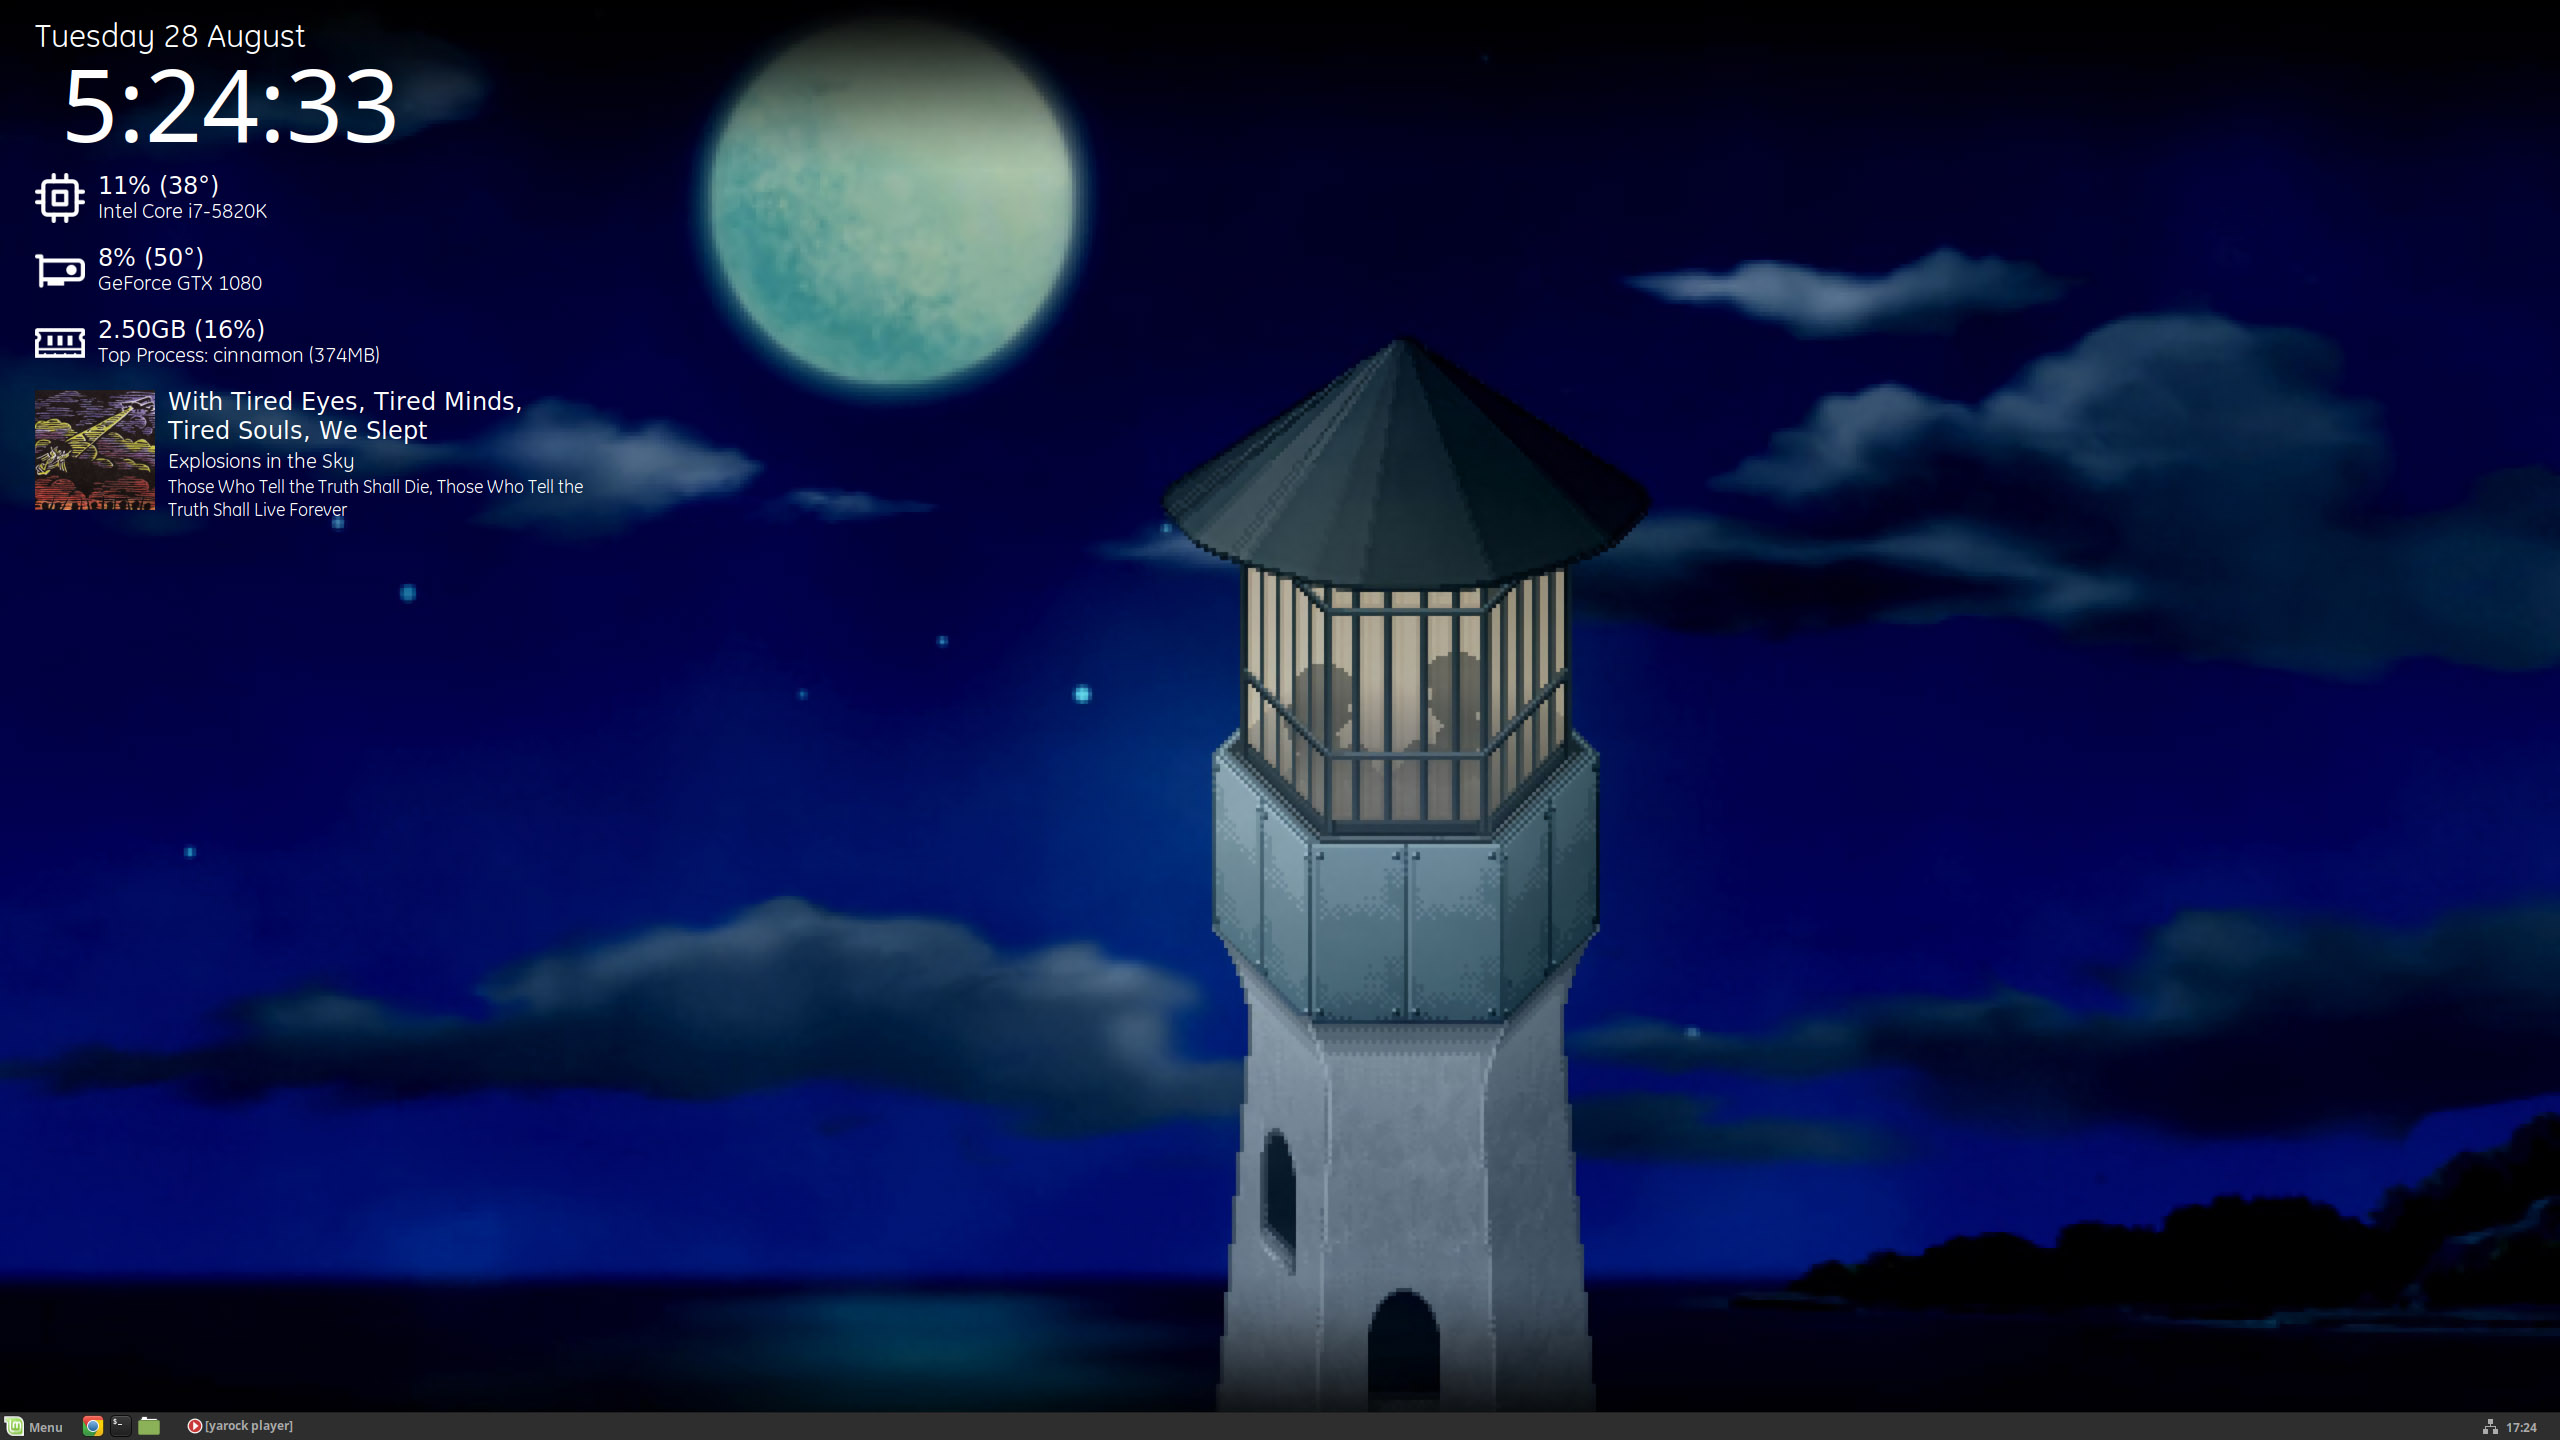
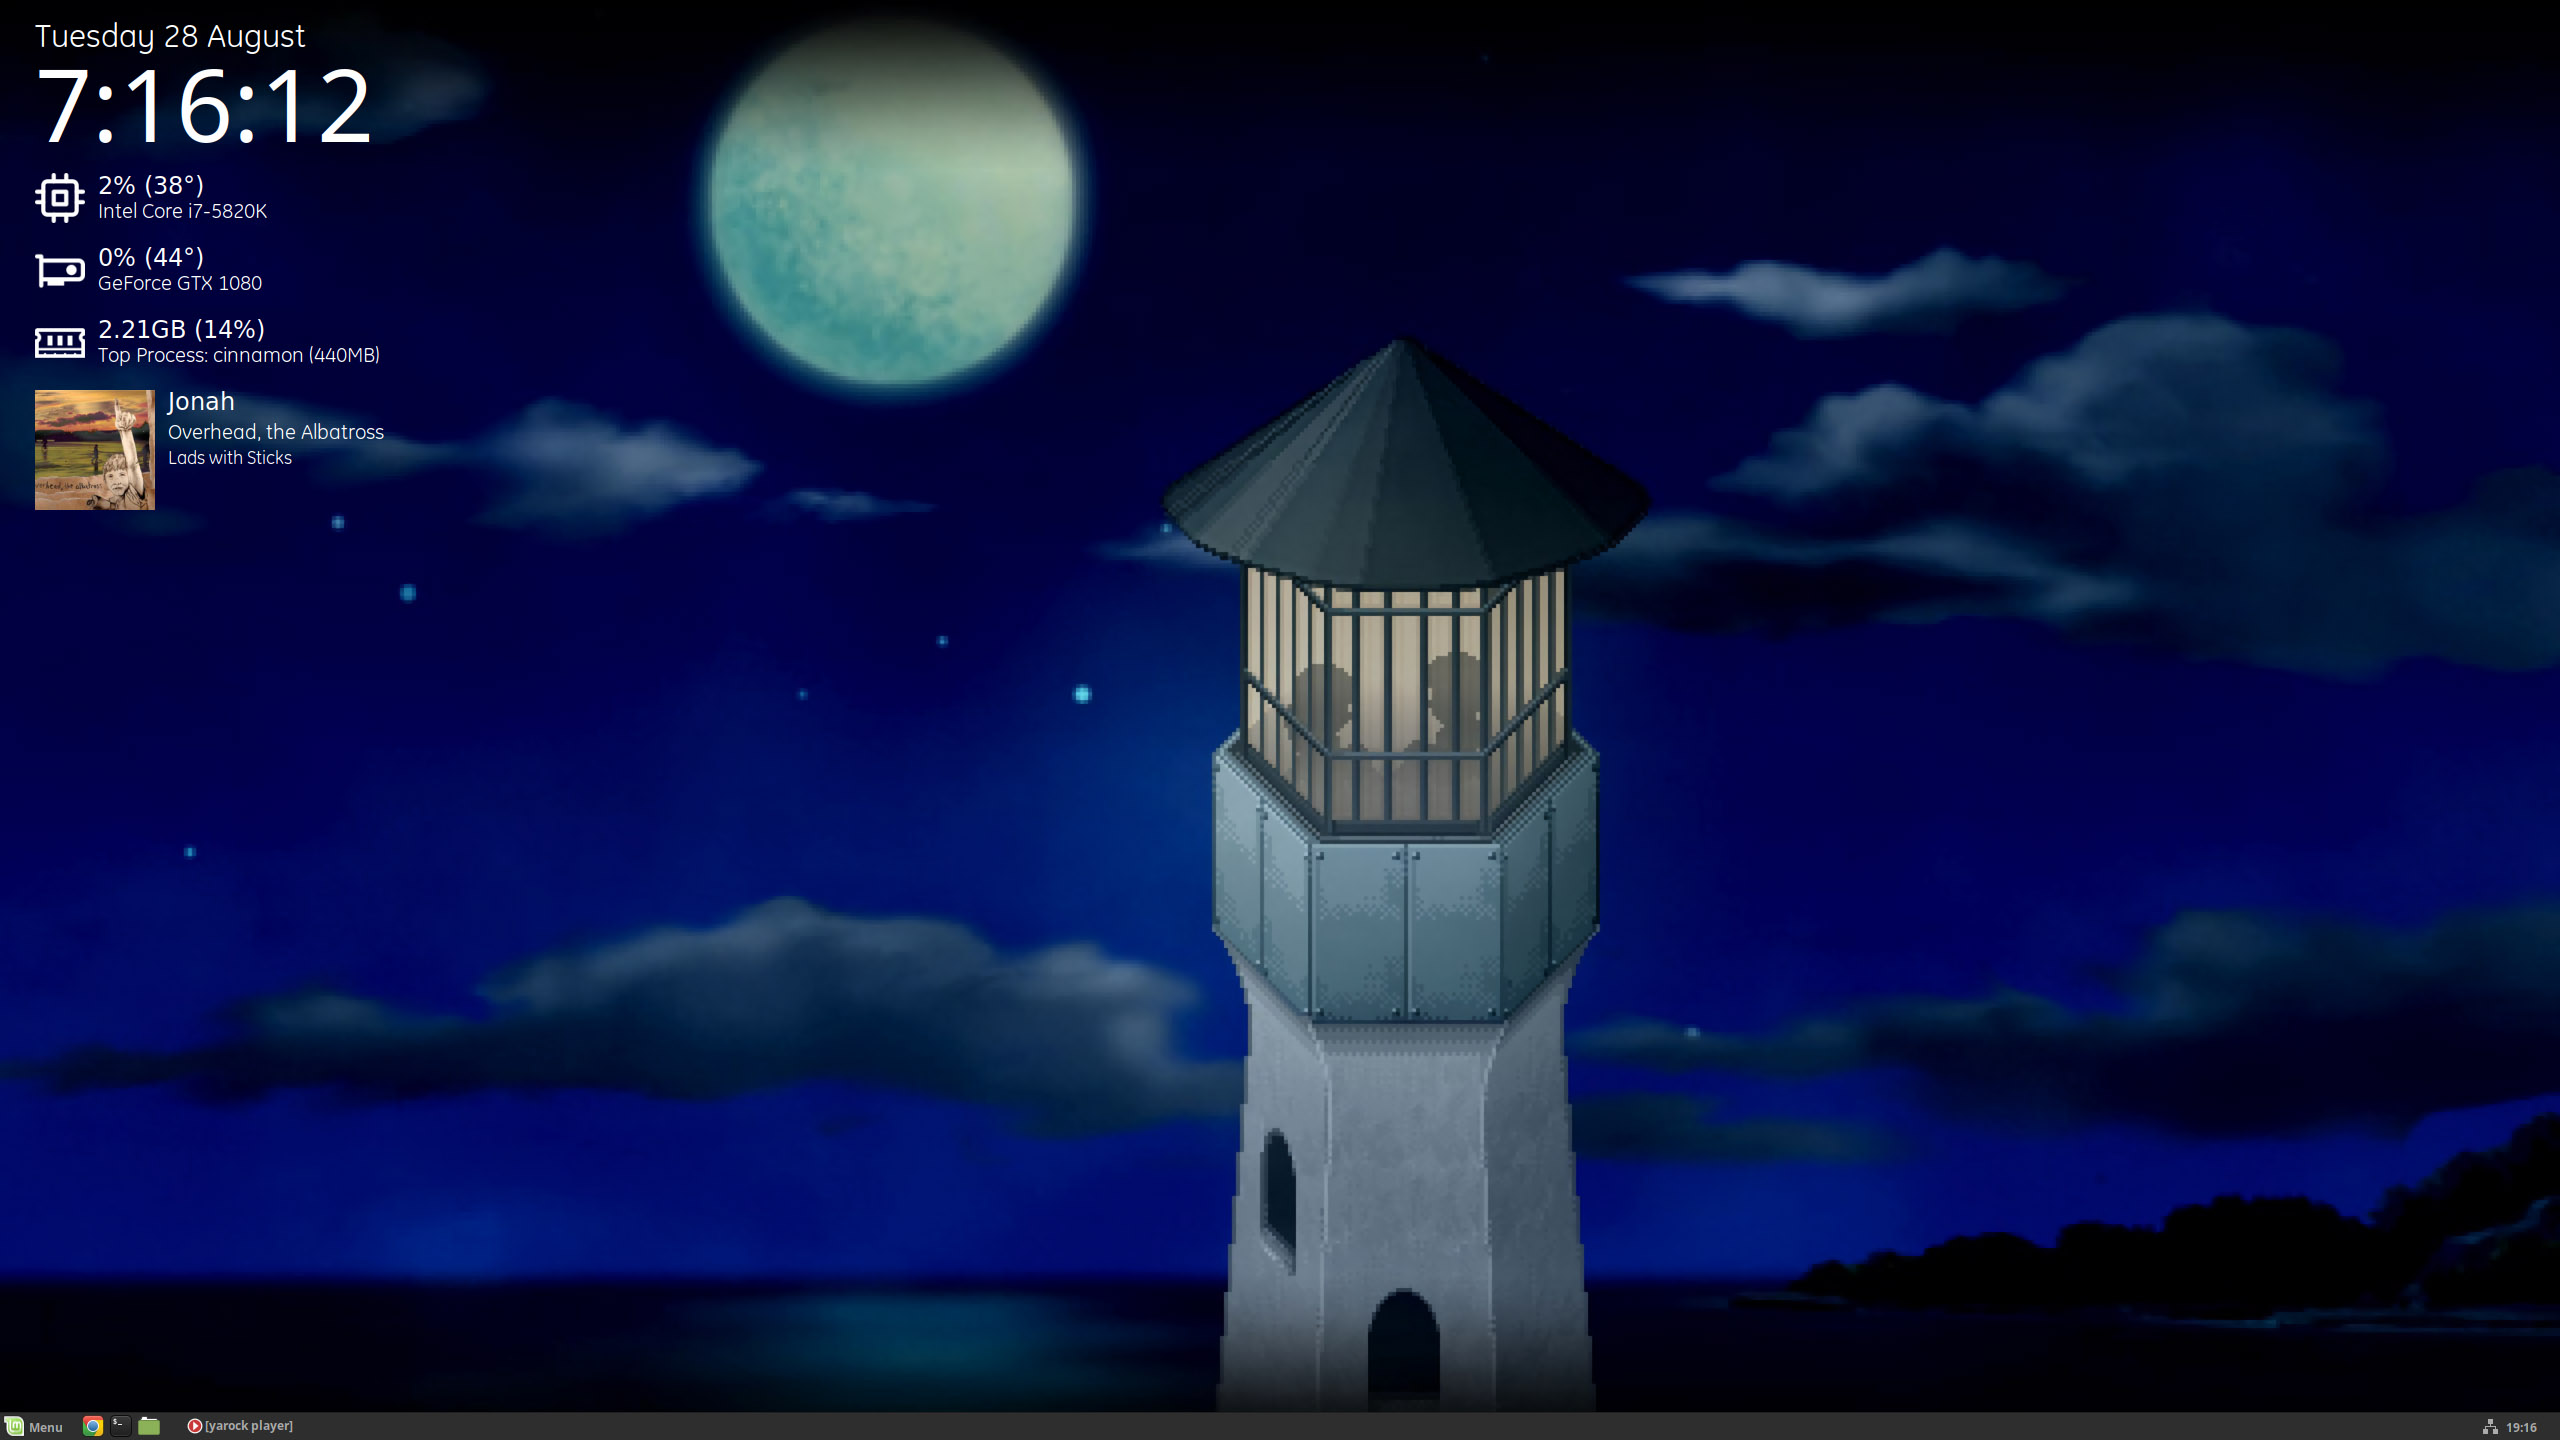
Fix odd single digit time spacing (caused by automatic padding), update preview.jpg

Changed region(s): [[0.0, 0.25, 0.2188, 0.375], [0.0, 0.0312, 0.1562, 0.1562]]

diff --git a/README.md b/README.md
@@ -25,7 +25,7 @@ To change the media player for the theme to read data from, you must change ever
 I can only test with an Nvidia GPU and the Nvidia proprietary driver, but if you're using an AMD or Intel GPU, or even a different driver, you'll need to modify the commands used to get GPU information since none of them are native to conky. I don't know and can't test the specific commands needed, so you'll need to use Google to find commands that work for you, then simply change the commands in the ```execi``` variables.
 
 ## Known Issues
-- The clock has an odd gap on the left when showing a single digit hour.
+- None! (Probably isn't very efficient though, not sure what can be done about this though)
 
 ## Attributions
 - Based originally on [conky-spoclo](https://github.com/Dacha204/conky-spoclo)
